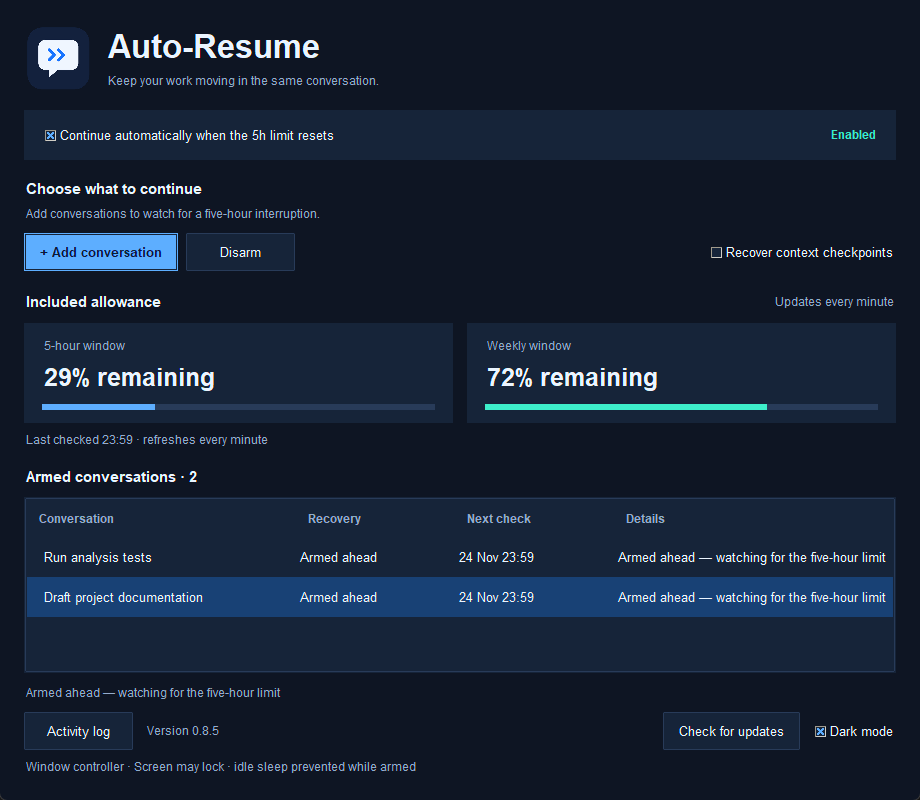
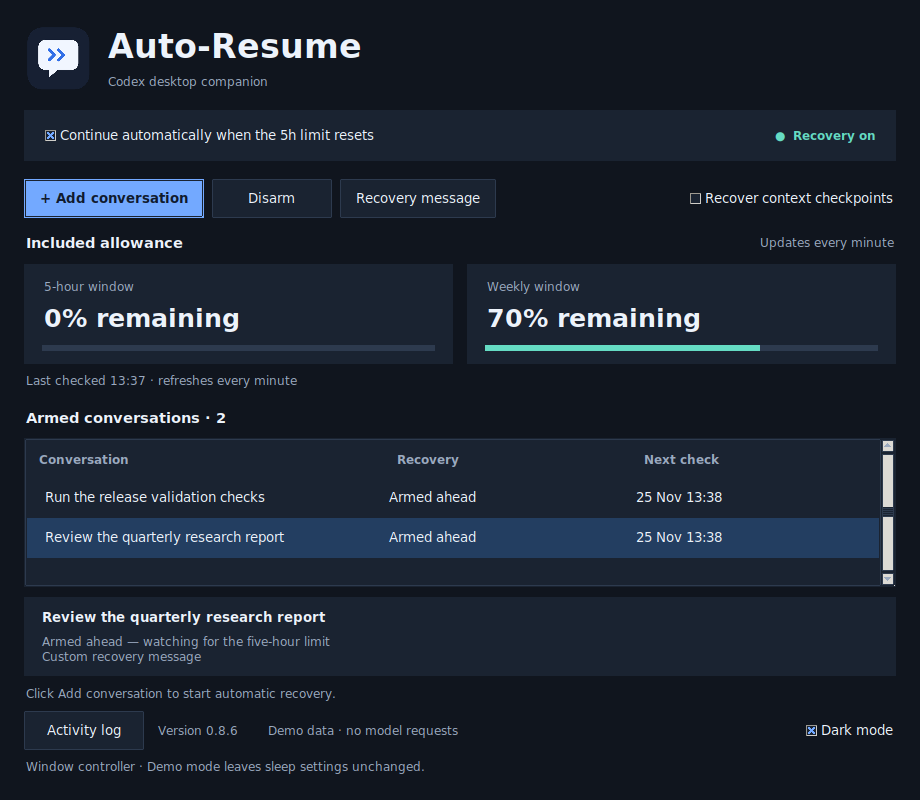
docs: publish the v0.8.6 recovery dashboard and message guide

diff --git a/docs/index.html b/docs/index.html
@@ -9,11 +9,11 @@
   <meta property="og:title" content="Codex Auto-Resume">
   <meta property="og:description" content="Pick up in the same Codex conversation when included usage returns.">
   <meta property="og:url" content="https://manouselis.github.io/codex-auto-resume/">
-  <meta property="og:image" content="https://manouselis.github.io/codex-auto-resume/screenshots/dark.png?v=0.8.5">
+  <meta property="og:image" content="https://manouselis.github.io/codex-auto-resume/screenshots/dark.png?v=0.8.6">
   <link rel="canonical" href="https://manouselis.github.io/codex-auto-resume/">
   <link rel="icon" href="assets/auto-resume.png" type="image/png">
   <link rel="stylesheet" href="assets/site.css?v=2">
-  <script src="assets/site.js?v=0.8.5" defer></script>
+  <script src="assets/site.js?v=0.8.6" defer></script>
   <title>Codex Auto-Resume</title>
 </head>
 <body id="top">
@@ -53,8 +53,8 @@
               <button type="button" data-theme="light" aria-pressed="false" aria-controls="app-preview">Light</button>
             </div>
           </figcaption>
-          <img id="app-preview" src="screenshots/dark.png?v=0.8.5" width="920" height="800"
-            alt="Auto-Resume 0.8.5 in dark mode showing remaining allowance and two example chats armed ahead."
+          <img id="app-preview" src="screenshots/dark.png?v=0.8.6" width="920" height="800"
+            alt="Auto-Resume 0.8.6 in dark mode showing remaining allowance and two example chats armed and the selected chat’s recovery details."
             fetchpriority="high">
         </figure>
       </div>
@@ -66,8 +66,8 @@
           <h2 id="downloads-title">Download for your desktop</h2>
           <p>Open the official Codex desktop app and sign in with ChatGPT Plus first.</p>
         </div>
-        <a class="release-link" id="release-details" href="https://github.com/Manouselis/codex-auto-resume/releases/tag/v0.8.5">
-          <span id="release-version">v0.8.5 beta</span> · Release notes
+        <a class="release-link" id="release-details" href="https://github.com/Manouselis/codex-auto-resume/releases/tag/v0.8.6">
+          <span id="release-version">v0.8.6 beta</span> · Release notes
         </a>
       </div>
       <div class="packages">
@@ -75,22 +75,22 @@
           <h3>Windows</h3>
           <p>Windows 11 · x64 or ARM with x64 emulation</p>
           <a class="button button-download" data-package="windows-x64-setup.exe"
-            href="https://github.com/Manouselis/codex-auto-resume/releases/download/v0.8.5/codex-auto-resume-0.8.5-windows-x64-setup.exe">Download installer</a>
+            href="https://github.com/Manouselis/codex-auto-resume/releases/download/v0.8.6/codex-auto-resume-0.8.6-windows-x64-setup.exe">Download installer</a>
         </article>
         <article class="package">
           <h3>Ubuntu</h3>
           <p>Ubuntu 22.04+ · x64</p>
           <a class="button button-download" data-package="linux-x64.deb"
-            href="https://github.com/Manouselis/codex-auto-resume/releases/download/v0.8.5/codex-auto-resume-0.8.5-linux-x64.deb">Download .deb</a>
+            href="https://github.com/Manouselis/codex-auto-resume/releases/download/v0.8.6/codex-auto-resume-0.8.6-linux-x64.deb">Download .deb</a>
         </article>
         <article class="package">
           <h3>macOS</h3>
           <p>Apple silicon with macOS 14+ or Intel with macOS 15+</p>
           <div class="package-buttons">
             <a class="button button-download" data-package="macos-arm64.dmg"
-              href="https://github.com/Manouselis/codex-auto-resume/releases/download/v0.8.5/codex-auto-resume-0.8.5-macos-arm64.dmg">Apple silicon</a>
+              href="https://github.com/Manouselis/codex-auto-resume/releases/download/v0.8.6/codex-auto-resume-0.8.6-macos-arm64.dmg">Apple silicon</a>
             <a class="button button-download" data-package="macos-x64.dmg"
-              href="https://github.com/Manouselis/codex-auto-resume/releases/download/v0.8.5/codex-auto-resume-0.8.5-macos-x64.dmg">Intel</a>
+              href="https://github.com/Manouselis/codex-auto-resume/releases/download/v0.8.6/codex-auto-resume-0.8.6-macos-x64.dmg">Intel</a>
           </div>
         </article>
       </div>
@@ -100,8 +100,8 @@
     <section class="shell upgrade" aria-labelledby="upgrade-title">
       <div class="upgrade-panel">
         <div>
-          <h2 id="upgrade-title">New in 0.8.5</h2>
-          <p><strong>Add conversation</strong> arms idle or active chats before the limit. They stay queued through ordinary manual turns while you work in Codex.</p>
+          <h2 id="upgrade-title">New in 0.8.6</h2>
+          <p>Search by chat title or ID. Select an armed chat to see why it is waiting and choose the message Codex receives when recovery begins.</p>
           <p>Startup and manual update checks use GitHub’s public release feed. Accept the update prompt to install the verified download and reopen Auto-Resume.</p>
         </div>
         <div>

diff --git a/docs/assets/site.js b/docs/assets/site.js
@@ -7,8 +7,8 @@ if (preview && themeButtons.length) {
   for (const button of themeButtons) {
     button.addEventListener("click", () => {
       const theme = button.dataset.theme;
-      preview.src = `screenshots/${theme}.png?v=0.8.5`;
-      preview.alt = `Auto-Resume 0.8.5 in ${theme} mode showing remaining allowance and two example chats armed ahead.`;
+      preview.src = `screenshots/${theme}.png?v=0.8.6`;
+      preview.alt = `Auto-Resume 0.8.6 in ${theme} mode showing remaining allowance and two example chats armed and the selected chat’s recovery details.`;
       for (const item of themeButtons) {
         item.setAttribute("aria-pressed", String(item === button));
       }

diff --git a/auto_resume/__init__.py b/auto_resume/__init__.py
@@ -1,3 +1,3 @@
 """Local, fail-closed continuation controller. No third-party runtime dependencies."""
 
-__version__ = "0.8.5"
+__version__ = "0.8.6"

diff --git a/README.md b/README.md
@@ -7,7 +7,7 @@ A desktop companion that resumes explicitly armed Codex conversations in the sam
 [Project website](https://manouselis.github.io/codex-auto-resume/)
 
 [![Checks](https://github.com/Manouselis/codex-auto-resume/actions/workflows/ci.yml/badge.svg)](https://github.com/Manouselis/codex-auto-resume/actions/workflows/ci.yml)
-[![Desktop installers](https://github.com/Manouselis/codex-auto-resume/actions/workflows/desktop.yml/badge.svg)](https://github.com/Manouselis/codex-auto-resume/actions/workflows/desktop.yml) · **v0.8.5 beta** · MIT
+[![Desktop installers](https://github.com/Manouselis/codex-auto-resume/actions/workflows/desktop.yml/badge.svg)](https://github.com/Manouselis/codex-auto-resume/actions/workflows/desktop.yml) · **v0.8.6 beta** · MIT
 
 ## Download and open
 
@@ -15,24 +15,26 @@ Python and Tk are bundled. Install the official Codex desktop app and sign in to
 
 | Your computer | Download | Install |
 | --- | --- | --- |
-| Ubuntu 22.04+ · x64 | [Ubuntu installer](https://github.com/Manouselis/codex-auto-resume/releases/download/v0.8.5/codex-auto-resume-0.8.5-linux-x64.deb) | Open with Software Install for a fresh install. Use [APT for upgrades](docs/INSTALL.md#upgrade-an-existing-ubuntu-installation). |
-| Windows 11 · x64 / ARM with x64 emulation | [Windows installer](https://github.com/Manouselis/codex-auto-resume/releases/download/v0.8.5/codex-auto-resume-0.8.5-windows-x64-setup.exe) | Open the installer, then launch from Start. |
-| macOS · Apple silicon, 14+ | [Apple silicon app](https://github.com/Manouselis/codex-auto-resume/releases/download/v0.8.5/codex-auto-resume-0.8.5-macos-arm64.dmg) | Open the disk image and drag the app to Applications. |
-| macOS · Intel, 15+ | [Intel app](https://github.com/Manouselis/codex-auto-resume/releases/download/v0.8.5/codex-auto-resume-0.8.5-macos-x64.dmg) | Open the disk image and drag the app to Applications. |
+| Ubuntu 22.04+ · x64 | [Ubuntu installer](https://github.com/Manouselis/codex-auto-resume/releases/download/v0.8.6/codex-auto-resume-0.8.6-linux-x64.deb) | Open with Software Install for a fresh install. Use [APT for upgrades](docs/INSTALL.md#upgrade-an-existing-ubuntu-installation). |
+| Windows 11 · x64 / ARM with x64 emulation | [Windows installer](https://github.com/Manouselis/codex-auto-resume/releases/download/v0.8.6/codex-auto-resume-0.8.6-windows-x64-setup.exe) | Open the installer, then launch from Start. |
+| macOS · Apple silicon, 14+ | [Apple silicon app](https://github.com/Manouselis/codex-auto-resume/releases/download/v0.8.6/codex-auto-resume-0.8.6-macos-arm64.dmg) | Open the disk image and drag the app to Applications. |
+| macOS · Intel, 15+ | [Intel app](https://github.com/Manouselis/codex-auto-resume/releases/download/v0.8.6/codex-auto-resume-0.8.6-macos-x64.dmg) | Open the disk image and drag the app to Applications. |
 
-These community beta installers are unsigned, so Windows and macOS may ask for confirmation. See [installation help](docs/INSTALL.md), [checksums and release files](https://github.com/Manouselis/codex-auto-resume/releases/tag/v0.8.5), and the [compatibility test scope](docs/TESTING.md).
+These community beta installers are unsigned, so Windows and macOS may ask for confirmation. See [installation help](docs/INSTALL.md), [checksums and release files](https://github.com/Manouselis/codex-auto-resume/releases/tag/v0.8.6), and the [compatibility test scope](docs/TESTING.md).
 
-Installed copies show their version in the footer and check for updates when opened. Version 0.8.5 uses GitHub’s public release feed and published checksums. If **Check for updates** fails in an older copy, close it and install 0.8.5 over it using the download above.
+Installed copies check GitHub for updates and verify the installer checksum. If the update check fails, download the installer for your platform above.
 
 1. Open Auto-Resume. **Continue automatically when the 5h limit resets** starts checked.
-2. Click **Add conversation**, then select an idle or running chat. The chat opens in Codex and shows **Armed ahead** in the queue. Start or keep working in Codex. Repeat to queue more chats.
+2. Click **Add conversation**, search by title or ID, and select an idle or running chat. The chat opens in Codex and shows **Armed ahead** in the queue. Start or keep working in Codex. Repeat to queue more chats.
 3. Armed chats stay queued through ordinary manual turns. After a confirmed five-hour interruption, Auto-Resume waits for the reset and verifies fresh included usage before resuming. Click **Disarm** to remove a chat. Normal completion after automatic recovery also removes it.
+
+Select an armed chat and click **Recovery message** to customize the prompt Codex receives after a verified reset. Leave it blank to use the built-in prompt. The selected chat’s details show why it is waiting and which message it will use.
 
 Allowance refreshes every minute. Optional **Recover context checkpoints** continues unfinished work from saved checkpoints.
 
-| Dark mode | Light mode |
-| --- | --- |
-| ![Dark desktop control panel](docs/screenshots/dark.png) | ![Light desktop control panel](docs/screenshots/light.png) |
+![Auto-Resume dashboard in dark mode with two example chats armed](docs/screenshots/dark.png)
+
+The screenshot uses example conversations. [View the light theme](docs/screenshots/light.png).
 
 ## Designed for unattended recovery
 

diff --git a/docs/INSTALL.md b/docs/INSTALL.md
@@ -1,6 +1,6 @@
 # Install Codex Auto-Resume
 
-Download your installer from the [v0.8.5 release](https://github.com/Manouselis/codex-auto-resume/releases/tag/v0.8.5). Python and Tk are bundled. Open the official Codex desktop app and sign in to ChatGPT Plus before adding conversations.
+Download your installer from the [v0.8.6 release](https://github.com/Manouselis/codex-auto-resume/releases/tag/v0.8.6). Python and Tk are bundled. Open the official Codex desktop app and sign in to ChatGPT Plus before adding conversations.
 
 ## Ubuntu
 
@@ -17,7 +17,7 @@ The application lives in `/opt/codex-auto-resume` and is available at `/usr/bin/
 Close Software Install if it is stalled. From the folder containing the new package, install it over the old version with APT. This also works if App Center only shows **Installed**.
 
 ```sh
-sudo apt install ./codex-auto-resume-0.8.5-linux-x64.deb
+sudo apt install ./codex-auto-resume-0.8.6-linux-x64.deb
 dpkg-query -W codex-auto-resume
 ```
 
@@ -57,13 +57,13 @@ The app discovers standard Codex desktop and CLI install locations. Open the off
 
 ## Updates and data
 
-Starting with 0.8.4, the footer shows the installed version. The Windows installer, Ubuntu DEB, and installed macOS app check GitHub at startup and every six hours while open. Version 0.8.5 discovers updates through GitHub’s public release feed and reads the installer’s published SHA-256 checksum. When an update is available, a popup asks whether to install it. If you decline, **Update to** remains available in the footer. Auto-Resume verifies the download, installs it in place, and reopens the app.
+Starting with 0.8.4, the footer shows the installed version. The Windows installer, Ubuntu DEB, and installed macOS app check GitHub at startup and every six hours while open. Version 0.8.6 discovers updates through GitHub’s public release feed and reads the installer’s published SHA-256 checksum. When an update is available, a popup asks whether to install it. If you decline, **Update to** remains available in the footer. Auto-Resume verifies the download, installs it in place, and reopens the app.
 
 Ubuntu uses APT and prompts for administrator authorization. If its background controller was active, select the chats you want to monitor again after the upgrade. macOS updates the installed app bundle and may request administrator authorization for a protected Applications folder. Copy the app from its disk image to Applications before opening it.
 
-If the update check in 0.8.4 or earlier fails, close the app and download 0.8.5 from the [project website](https://manouselis.github.io/codex-auto-resume/#downloads). Run the Windows installer, use the [APT upgrade steps](#upgrade-an-existing-ubuntu-installation) on Ubuntu, or replace the macOS app in Applications.
+If the update check in 0.8.4 or earlier fails, close the app and download 0.8.6 from the [project website](https://manouselis.github.io/codex-auto-resume/#downloads). Run the Windows installer, use the [APT upgrade steps](#upgrade-an-existing-ubuntu-installation) on Ubuntu, or replace the macOS app in Applications.
 
-Recovery metadata is preserved across upgrades/uninstall. It contains chat/account/project identifiers and guard state, not credentials or message text. Defaults:
+The local state database retains recovery metadata and any custom recovery messages across upgrades and uninstall. It stores chat/account/project identifiers and guard state. Auto-Resume does not copy conversation transcripts or credentials into it. Defaults:
 
 - Ubuntu/macOS: `$XDG_STATE_HOME/codex-auto-resume/state.sqlite3`, normally `~/.local/state/codex-auto-resume/state.sqlite3`.
 - Windows: `%LOCALAPPDATA%\codex-auto-resume\state.sqlite3`.

diff --git a/docs/RELEASE_NOTES.md b/docs/RELEASE_NOTES.md
@@ -1,19 +1,9 @@
-Download the installer for your computer below. Python and Tk are included. Install the official Codex desktop app and sign in to ChatGPT Plus first.
+- Set a custom **Recovery message** for any chat managed by the companion. Leave the field blank to use the built-in prompt. Fixes [#3](https://github.com/Manouselis/codex-auto-resume/issues/3).
+- Search the conversation picker by title or ID. Select a queue entry to see why it is waiting and which message it will use.
+- The dashboard refreshes less often while idle and leaves unchanged rows alone.
 
-- Ubuntu x64: use Software Install for a fresh install. To upgrade from an earlier release, run `sudo apt install ./codex-auto-resume-0.8.5-linux-x64.deb` from the download folder, then reopen Auto-Resume.
-- Windows 11: open `windows-x64-setup.exe` and follow the wizard (also runs on Windows 11 ARM through x64 emulation).
-- macOS: choose `macos-arm64.dmg` for Apple silicon (14+) or `macos-x64.dmg` for Intel (15+); drag the app to Applications.
+Python and Tk are bundled. Install Codex separately and sign in to ChatGPT Plus. On Ubuntu, open the DEB with Software Install for a fresh install and use APT for an existing install. On Windows, run the per-user setup wizard. On macOS, open the DMG for your processor and drag the app to Applications.
 
-Use **Add conversation** to arm idle or running chats ahead of the five-hour limit. Keep working in Codex. These chats stay queued through ordinary manual turns, and Auto-Resume waits for verified included usage before recovering a confirmed interruption. **Disarm** removes a chat from the queue.
+The attached smoke reports record install and GUI checks on Ubuntu 22.04, 24.04, and 26.04, Windows Server x64 and Windows 11 ARM with x64 emulation, and macOS on Apple silicon and Intel. These checks use isolated test data. See the test guide for live continuation evidence and its scope.
 
-Auto-Resume checks for updates on startup through GitHub’s public release feed and verifies the installer checksum. Confirm the popup to install the update and reopen the app. If the update check fails in 0.8.4 or earlier, download the installer for 0.8.5 below and install it over your existing copy.
-
-When the Microsoft Store runtime lacks a standalone daemon package, Auto-Resume can use the bundled App Server to list conversations and access the desktop queue.
-
-Auto-Resume keeps explicitly armed usage-limited desktop goals in the queue. Once included allowance is available, it reactivates the goal and wakes the original Codex chat. **Running** appears after the app confirms the new turn.
-
-This community beta is unsigned (macOS uses an ad-hoc bundle signature). SmartScreen/Gatekeeper may ask for confirmation; see the installation guide. Live Codex continuation is verified on Ubuntu with runtime 0.166. Automated installer/GUI tests on other OSes use isolated invented data; live cross-platform Codex integration, downloaded-app security prompts and repeated unattended quota-reset cycles remain unverified.
-
-Included smoke JSON reports identify the exact tested hosts and timings. `SHA256SUMS` covers the downloadable installers, source and developer zipapp. The `.pyz` is the optional developer build, not the graphical installer.
-
-[Installation](https://github.com/Manouselis/codex-auto-resume/blob/main/docs/INSTALL.md) · [Test scope](https://github.com/Manouselis/codex-auto-resume/blob/main/docs/TESTING.md) · [Source](https://github.com/Manouselis/codex-auto-resume)
+[Install guide](https://github.com/Manouselis/codex-auto-resume/blob/main/docs/INSTALL.md) · [Test guide](https://github.com/Manouselis/codex-auto-resume/blob/main/docs/TESTING.md)

diff --git a/docs/SAFETY.md b/docs/SAFETY.md
@@ -47,7 +47,7 @@ The external engine allows up to three automatic continuation attempts per armin
 
 The companion never approves sensitive actions. A server approval or input request pauses the registered task and remains unanswered. Approval routing from an independently connected desktop client to the daemon-owned turn is not verified; manually inspect Codex before continuing.
 
-On Ubuntu state files use mode 0600 and newly created state directories 0700. An application ID prevents overwriting unrelated databases. State contains account/thread/project identifiers and safety metadata, but no conversation text or credentials. Logs do not include raw backend error messages. Public live evidence omits the test thread ID.
+On Ubuntu state files use mode 0600 and newly created state directories 0700. An application ID prevents overwriting unrelated databases. State contains account/thread/project identifiers, safety metadata, and any recovery message you save. Auto-Resume keeps saved recovery messages out of the activity log and does not copy transcripts or credentials into its database. Logs do not include raw backend error messages. Public live evidence omits the test thread ID.
 
 The socket is restricted to the current user's official daemon. Closing the window/connection does not kill an acknowledged running daemon turn. Uninstall preserves task history and never modifies Codex's files. Windows ACLs and transport behavior remain unverified.
 

diff --git a/docs/TESTING.md b/docs/TESTING.md
@@ -1,6 +1,16 @@
-# Testing — 0.8.0
+# Testing
 
-Local Ubuntu 22.04/X11, Python 3.10.12: **241 tests, 240 passed, one Windows-only API test skipped; all 19 GUI tests passed**. [Current report](evidence/test-results.json). Tests send zero live model requests.
+## Version 0.8.6
+
+The desktop workflow builds, installs, and launches the bundled app on Ubuntu 22.04, Windows Server x64, and macOS on Apple silicon and Intel. Compatibility jobs exercise the same packages on Ubuntu 24.04, Ubuntu 26.04, and Windows 11 ARM under x64 emulation. The release includes JSON reports for every host. These jobs use test data and make zero live model requests.
+
+The new message tests exercise actual queue payloads against a controlled backend. They verify per-chat persistence during a reset wait, no send on save, the exact custom text, the default fallback, and refusal to edit when a submission is outstanding. The GUI test saves and clears the text through the actual editor.
+
+[Desktop installer runs](https://github.com/Manouselis/codex-auto-resume/actions/workflows/desktop.yml)
+
+## Historical verification from 0.8.0
+
+Local Ubuntu 22.04/X11, Python 3.10.12: **241 tests, 240 passed, one Windows-only API test skipped; all 19 GUI tests passed**. Local report from the 0.8.0 release.. Tests send zero live model requests.
 
 ## Native installers and compatibility
 

diff --git a/docs/RECOVERY.md b/docs/RECOVERY.md
@@ -1,5 +1,15 @@
 # Usage limits and context-budget recovery
 
+## Choose a recovery message
+
+1. Add a conversation and select its row in the armed queue.
+2. Click **Recovery message**, enter up to 4,000 characters, and click **Save**.
+3. To restore the built-in prompt, choose **Use default** and **Save**. Whitespace alone also restores it.
+
+The app saves the setting locally for that conversation across restarts and rearming. It records the change in the activity log without including the text. Saving preserves the scheduled check and does not send a message. At dispatch, the app reads the saved message when it reserves the continuation. Existing usage, identity, approval, and duplicate-send checks still apply. If checkpoint recovery is enabled, Auto-Resume appends its checkpoint instructions.
+
+A chat with a native Codex schedule takes its instructions from the schedule. The dashboard shows that distinction in the chat details.
+
 ## Arming ahead
 
 In 0.8.5, **Add conversation** opens an idle or running chat in Codex and adds it to the queue as **Armed ahead**. Start or keep working in Codex. Add more chats the same way. Auto-Resume follows ordinary manual turns until it confirms a five-hour interruption or a context checkpoint you enabled. The CLI equivalent for a desktop chat is `codex-auto-resume arm THREAD_ID --wait-for-limit`.

diff --git a/docs/CHANGELOG.md b/docs/CHANGELOG.md
@@ -2,6 +2,12 @@
 
 [Documentation index](README.md) · [Verification report](TESTING.md)
 
+## 0.8.6 — 25 November 2026
+
+- Set a recovery message for each armed chat. An empty field restores the built-in prompt. Fixes [#3](https://github.com/Manouselis/codex-auto-resume/issues/3).
+- Search the conversation picker by title or ID. The dashboard puts the recovery explanation and message setting next to the queue.
+- Refresh the quiet dashboard once a second and update displayed rows only when they change. Allowance still refreshes once a minute.
+
 ## 0.8.5
 
 - **Add conversation** arms idle or running chats ahead of the five-hour limit. They stay in the queue through ordinary manual turns and recover after a confirmed interruption and reset.
